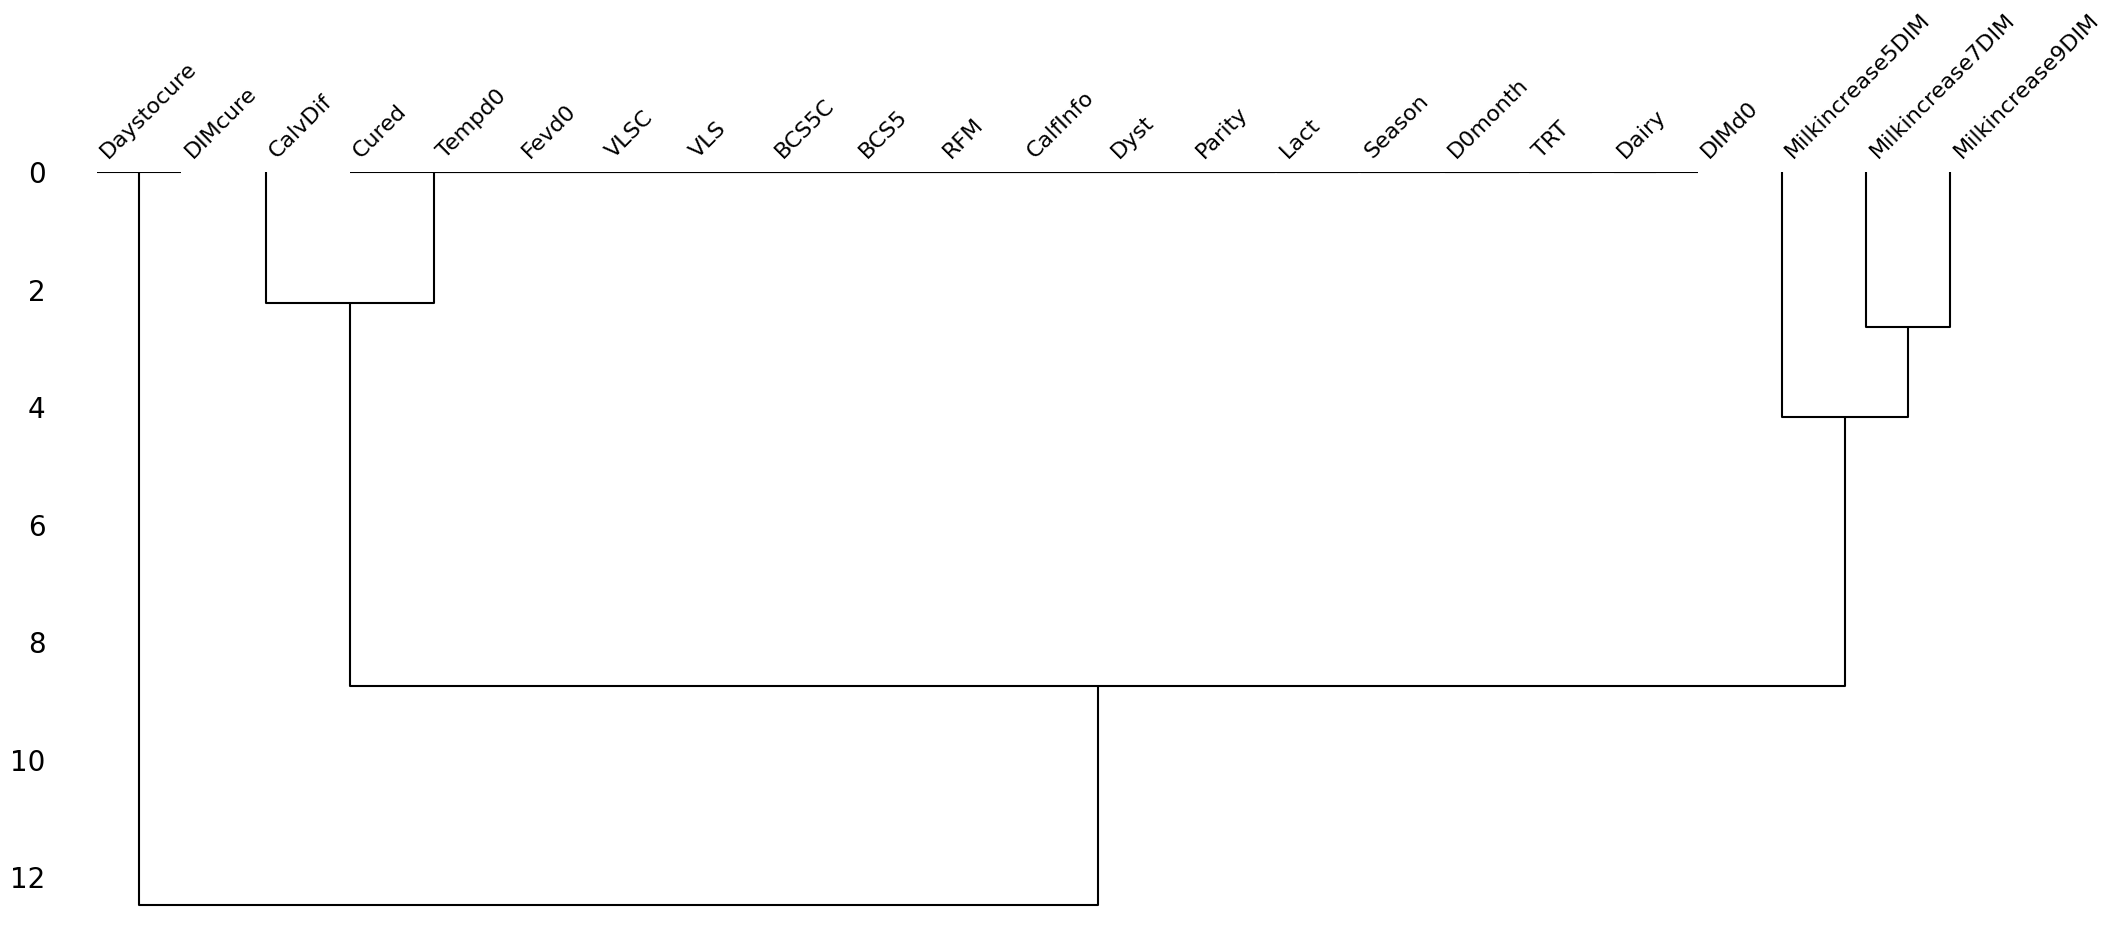
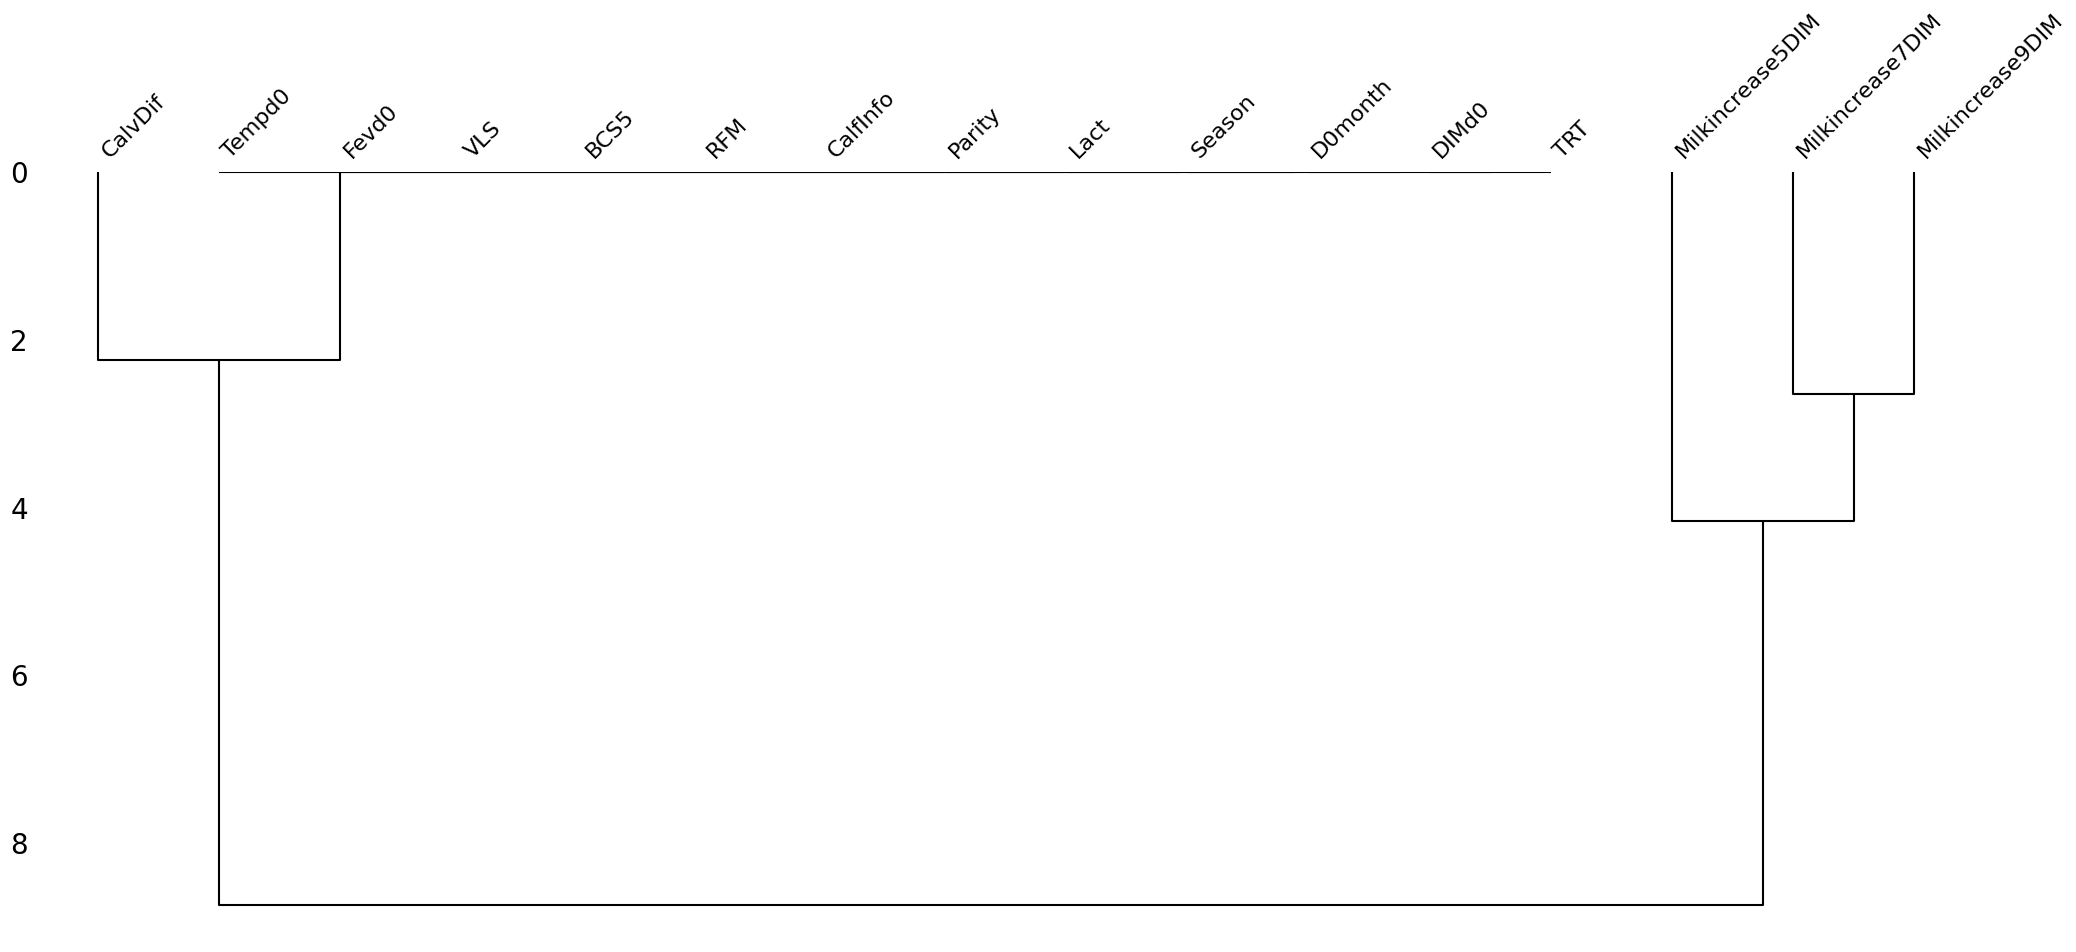
visualize missing values for only the X not the whole data

diff --git a/main.py b/main.py
@@ -53,13 +53,13 @@ def main():
     # read data
     pd_data = pmanager.read_data()
 
-    # visualize missing values
-    visualize_missing_values(
-        pd_data,
-        configparser.get_str('visualization_dir'))
-
     # get independent / dependent variables
     X, y = pmanager.get_X_and_y(pd_data)
+
+    # visualize missing values
+    visualize_missing_values(
+        X,
+        configparser.get_str('visualization_dir'))
 
     # scale features
     X = pmanager.scale_features(X)
